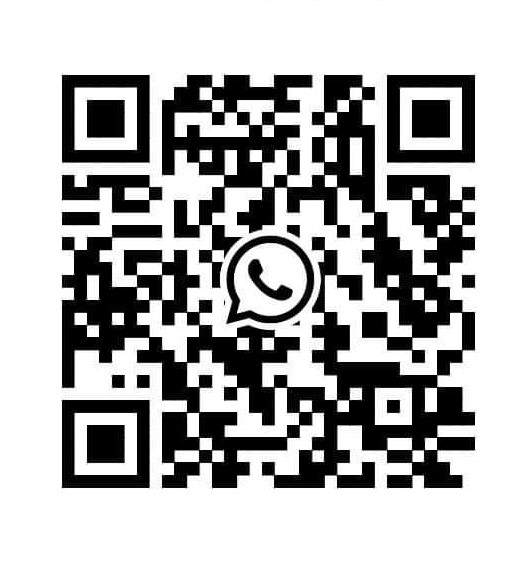
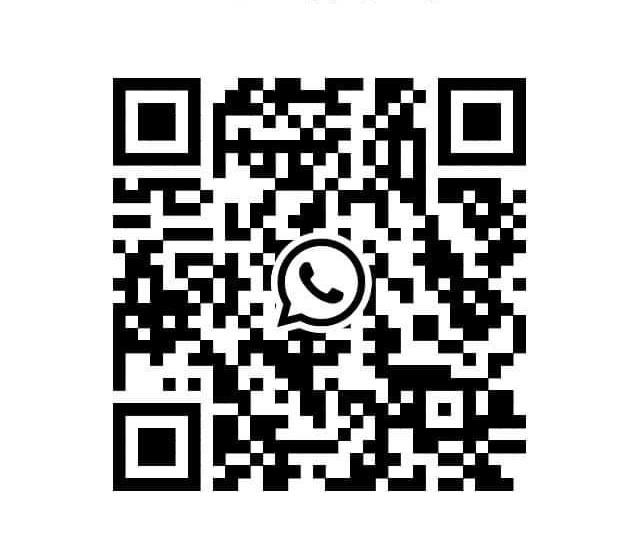
Updated contact info and fixed scrollbar feature to show all districts code

diff --git a/components/FrontEnd/ContactInfo.tsx b/components/FrontEnd/ContactInfo.tsx
@@ -13,7 +13,7 @@ import Image from "next/image";
                   <path strokeLinecap="round" strokeLinejoin="round" d="M19.5 10.5c0 7.142-7.5 11.25-7.5 11.25S4.5 17.642 4.5 10.5a7.5 7.5 0 1115 0z" />
               </svg>
           ,
-          contact: "Mountain View, California, United State.",
+          contact: "Maseru, Lesotho, 100",
           title: "Our office"
       },
       {
@@ -31,7 +31,7 @@ import Image from "next/image";
                   <path strokeLinecap="round" strokeLinejoin="round" d="M21.75 6.75v10.5a2.25 2.25 0 01-2.25 2.25h-15a2.25 2.25 0 01-2.25-2.25V6.75m19.5 0A2.25 2.25 0 0019.5 4.5h-15a2.25 2.25 0 00-2.25 2.25m19.5 0v.243a2.25 2.25 0 01-1.07 1.916l-7.5 4.615a2.25 2.25 0 01-2.36 0L3.32 8.91a2.25 2.25 0 01-1.07-1.916V6.75" />
               </svg>
           ,
-          contact: "Support@example.com",
+          contact: "sebabatsolesotho@gmail.com",
           title: "Email"
       },
   ]
@@ -173,15 +173,14 @@ const content = [
     description:
       "See changes as they happen. With our platform, you can track every modification in real time. No more confusion about the latest version of your project. Say goodbye to the chaos of version control and embrace the simplicity of real-time updates.",
     content: (
-      <div className="h-443 w-445 flex items-center justify-center text-white">
+      <div className="h-full w-full flex items-center justify-center text-white">
   <Image
-    src="/Berea.jpg"
-    layout="intrinsic"
-    width={445}
-    height={443}
-    className="object-contain"
-    alt="QR code"
-  />
+          src="/Berea1.jpg"
+          width={300}
+          height={300}
+          className="h-full w-full object-cover"
+          alt="linear board demo"
+        />
 </div>
 
 
@@ -207,10 +206,10 @@ const content = [
 export function ContactInfo() {
   return (
     <div className="p-10">
-      <div className="max-w-screen-xl mx-auto px-4 text-gray-600 md:px-8">
+      <div className="max-w-screen-xl mx-auto px-4  dark:text-white-600 md:px-8">
               <div className="max-w-xl space-y-3">
                   
-                  <p className="text-gray-800 text-3xl font-semibold sm:text-4xl">
+                  <p className=" text-3xl dark:text-white-600 font-semibold sm:text-4xl">
                       Know where you can find us
                   </p>
                   <p>
@@ -222,7 +221,7 @@ export function ContactInfo() {
                       {
                           contactMethods.map((item, idx) => (
                               <li key={idx}>
-                                  <h4 className="text-gray-800 text-lg font-medium">{item.title}</h4>
+                                  <h4 className="dark:text-white-500 text-lg font-medium">{item.title}</h4>
                                   <div className="mt-3 flex items-center gap-x-3">
                                       <div className="flex-none text-gray-400">
                                           {item.icon}

diff --git a/components/ui/sticky-scroll-reveal.tsx b/components/ui/sticky-scroll-reveal.tsx
@@ -64,7 +64,7 @@ export const StickyScroll = ({
       animate={{
         backgroundColor: backgroundColors[activeCard % backgroundColors.length],
       }}
-      className="h-[30rem] overflow-y-auto flex justify-center relative space-x-10 rounded-md p-10"
+      className="h-[20rem] overflow-y-auto flex justify-center relative space-x-10 rounded-md p-10"
       ref={ref}
     >
       <div className="div relative flex items-start px-4">
@@ -78,7 +78,8 @@ export const StickyScroll = ({
                 animate={{
                   opacity: activeCard === index ? 1 : 0.3,
                 }}
-                className="text-2xl font-bold text-slate-100"
+                className="text-2xl font-bold text-slate-900
+                dark:text-slate-100"
               >
                 {item.title}
               </motion.h2>
@@ -89,7 +90,8 @@ export const StickyScroll = ({
                 animate={{
                   opacity: activeCard === index ? 1 : 0.3,
                 }}
-                className="text-kg text-slate-300 max-w-sm mt-10"
+                className="text-kg text-slate-900
+                dark:text-slate-100 max-w-sm mt-10"
               >
                 {item.description}
               </motion.p>

diff --git a/app/(front)/contactInfo/page.tsx b/app/(front)/contactInfo/page.tsx
@@ -4,7 +4,7 @@ import { ContactInfo } from "@/components/FrontEnd/ContactInfo";
 export default async function Contact() {
   return (
     <>
-     <ContactInfo />git 
+     <ContactInfo /> 
     </>
   );
 } 
